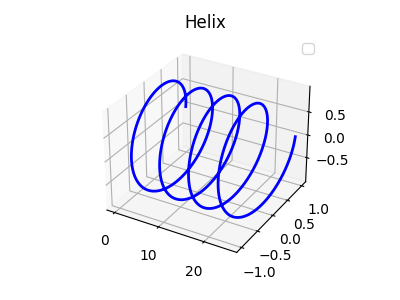
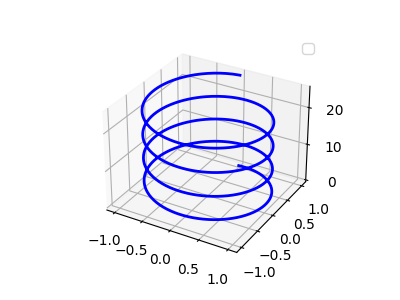
add parabolic and hyperbolic spirals

diff --git a/doc/script/python/helix3.py b/doc/script/python/helix3.py
@@ -1,0 +1,66 @@
+'''helix.py'''
+from plothelper import *
+from mpl_toolkits.mplot3d import Axes3D
+
+# draw one circle
+# draw four circles
+# vary the z axis -> helix
+# vary the xy axes -> spiral
+# vary both -> helical spiral
+
+def calc_spiral_radius(r, theta, spiralstyle='archimedes', varyxy=0):
+	rs = r
+	if spiralstyle == 'archimedes':
+		rs = theta
+	elif spiralstyle == 'logarithmic':
+		rs = r ** (varyxy * theta)  # required: 0 < varyxy < 1
+	elif spiralstyle == 'parabolic':
+		rs = varyxy * (theta ** .5)  # required: varyxy a=> 0
+	elif spiralstyle == 'hyperbolic':
+		rs = varyxy / theta  # Required: theta > 0 
+	return rs
+
+def drawspiral(nDim=2, nRings=1, nArms=1, r=1, spiralstyle='archimedes', varyz=0, varyxy=0):
+	n_one = 360
+	n_max = n_one * nRings
+	theta_one = 2 * np.pi
+	theta_max = nRings * theta_one
+	theta = np.linspace(1, theta_max, n_max)
+
+	rs = calc_spiral_radius(r,theta,spiralstyle,varyxy)
+	x = rs * np.cos(theta)
+	y = rs * np.sin(theta)
+	z = varyz * theta
+
+	fig = plt.figure()
+	#ax = fig.add_subplot(111, projection='3d')
+	ax = fig.add_subplot(111)
+
+	if nArms == 2:
+		x = np.concatenate((x, 0 - x))
+		y = np.concatenate((y, 0 - y))
+		z = np.concatenate((z, z))
+
+	#ax.plot(x,y,z)
+	ax.plot(x,y)
+
+	plt.show()
+
+
+drawspiral( nRings=4,nArms=2,r=10,spiralstyle='archimedes')
+drawspiral( nRings=4,nArms=2,r=10,spiralstyle='logarithmic', varyxy=.01)
+drawspiral( nRings=4,nArms=2,r=5,spiralstyle='parabolic', varyxy=.1)
+drawspiral( nRings=4,nArms=2,r=5,spiralstyle='hyperbolic', varyxy=45)
+quit()
+drawspiral( 4,10,spiralstyle='circle')
+drawspiral( 4,10,spiralstyle='circle', varyz=.1)
+drawspiral(44, 5,spiralstyle='circle', varyz=.1)
+drawspiral( 4,10,spiralstyle='archimedes')
+drawspiral( 4,10,spiralstyle='archimedes', varyz=.1)
+drawspiral( 4,10,spiralstyle='logarithmic', varyxy=.01)
+drawspiral( 4,10,spiralstyle='logarithmic', varyz=.1, varyxy=.01)
+drawspiral( 4, 5,spiralstyle='parabolic', varyxy=.1)
+drawspiral( 4, 5,spiralstyle='parabolic', varyz=.1, varyxy=.1)
+drawspiral( 4, 5,spiralstyle='hyperbolic', varyxy=45)
+drawspiral( 4, 5,spiralstyle='hyperbolic', varyz=.1, varyxy=45)
+

diff --git a/doc/script/python/helix2.py b/doc/script/python/helix2.py
@@ -1,0 +1,51 @@
+'''helix.py'''
+from plothelper import *
+from mpl_toolkits.mplot3d import Axes3D
+
+# draw one circle
+# draw four circles
+# vary the z axis -> helix
+# vary the xy axes -> spiral
+# vary both -> helical spiral
+
+def calc_spiral_radius(r, theta, spiralstyle='archimedes', varyxy=0):
+	rs = r
+	if spiralstyle == 'archimedes':
+		rs = theta
+	elif spiralstyle == 'logarithmic':
+		rs = r ** (varyxy * theta)  # required: 0 < varyxy < 1
+	elif spiralstyle == 'parabolic':
+		rs = varyxy * (theta ** .5)  # required: varyxy a=> 0
+	elif spiralstyle == 'hyperbolic':
+		rs = varyxy / theta  # Required: theta > 0 
+	return rs
+
+def drawspiral(nRings=1, r=1, spiralstyle='archimedes', varyz=0, varyxy=0):
+	n_one = 360
+	n_max = n_one * nRings
+	theta_one = 2 * np.pi
+	theta_max = nRings * theta_one
+	theta = np.linspace(1, theta_max, n_max)
+
+	rs = calc_spiral_radius(r,theta,spiralstyle,varyxy)
+	x = rs * np.cos(theta)
+	y = rs * np.sin(theta)
+	z = varyz * theta
+
+	fig = plt.figure()
+	ax = fig.add_subplot(111, projection='3d')
+	ax.plot(x,y,z)
+	savegraph(spiralstyle + '_spiral_' + ('3d' if varyz else '2d'))
+	plt.show()
+
+drawspiral( 4,10,spiralstyle='circle')
+drawspiral( 4,10,spiralstyle='circle', varyz=.1)
+drawspiral( 4,10,spiralstyle='archimedes')
+drawspiral( 4,10,spiralstyle='archimedes', varyz=.1)
+drawspiral( 4, 5,spiralstyle='logarithmic', varyxy=.1)
+drawspiral( 4, 5,spiralstyle='logarithmic', varyz=.1, varyxy=.1)
+drawspiral( 4, 5,spiralstyle='parabolic', varyxy=.1)
+drawspiral( 4, 5,spiralstyle='parabolic', varyz=.1, varyxy=.1)
+drawspiral( 4, 5,spiralstyle='hyperbolic', varyxy=45)
+drawspiral( 4, 5,spiralstyle='hyperbolic', varyz=.1, varyxy=45)
+

diff --git a/doc/script/python/helix.py b/doc/script/python/helix.py
@@ -4,15 +4,15 @@ from mpl_toolkits.mplot3d import Axes3D
 
 title = 'Helix'
 
-n = 1000
 fig = plt.figure()
-ax = fig.add_subplot(111, projection='3d')
+ax = fig.add_subplot(121, projection='3d')
 
-# Plot a helix along the x-axis
+# Plot a helix along the z-axis
+n = 1000
 theta_max = 8 * np.pi
 theta = np.linspace(0, theta_max, n)
-x = theta
-z =  np.sin(theta)
+z = theta
+x =  np.sin(theta)
 y =  np.cos(theta)
 ax.plot(x, y, z, 'b', lw=2)
 
@@ -27,7 +27,30 @@ ax.plot(x, y, z, 'b', lw=2)
 # Remove axis planes, ticks and labels
 #ax.set_axis_off()
 
-formatgraph(title)
-savegraph(title)
+#formatgraph(False)
+#savegraph(title)
+#plt.show()
+
+
+title = 'circle in cartisean coordinates'
+
+# x**2 + y**2 = r**2  # cartesian equation for a circle, with r = radius
+
+theta = np.linspace(0, 2*np.pi, 100)  # 100 points from 0 to 2pi
+r = np.sqrt(10)  # radius
+
+x = r*np.cos(theta)
+y = r*np.sin(theta)
+z = theta
+
+#fig, ax = plt.subplots(1)
+#ax.plot(x,y)
+#ax.set_aspect(1)
+#plt.show()
+
+ax = fig.add_subplot(122, projection='3d')
+ax.plot(x,y,z,'b')
+#ax.plot(x, y, z, 'b', lw=2)
 plt.show()
+
 

diff --git a/doc/script/python/plothelper.py b/doc/script/python/plothelper.py
@@ -4,7 +4,7 @@ import matplotlib.pyplot as plt
 
 plotfolder = '/home/john/webapps/curriculum/curriculum/doc/dokuwiki/data-media/'
 
-def formatgraph(title):
+def formatgraph(title, legend=True):
 	fig = plt.gcf()
 	fig.set_size_inches(4,3)
 	ax = plt.gca();
@@ -15,7 +15,8 @@ def formatgraph(title):
 	plt.grid()
 	if title:
 		plt.title(title)
-	plt.legend() # (loc=9) upper-center
+	if legend:
+		plt.legend() # (loc=9) upper-center
 	return;
 
 def formatspiral(title):
